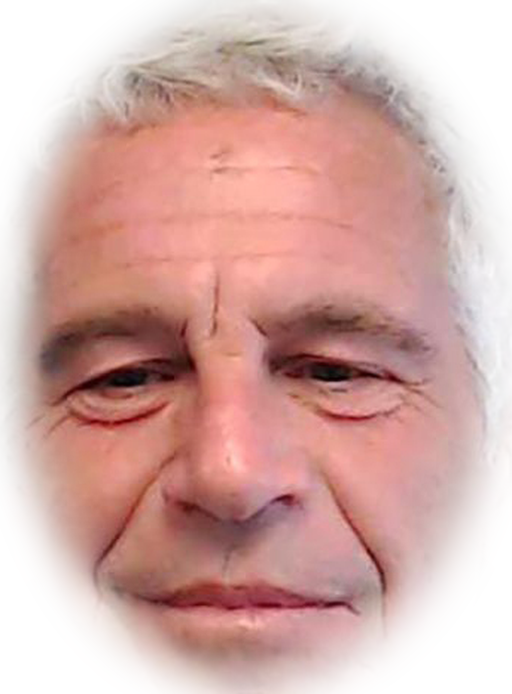
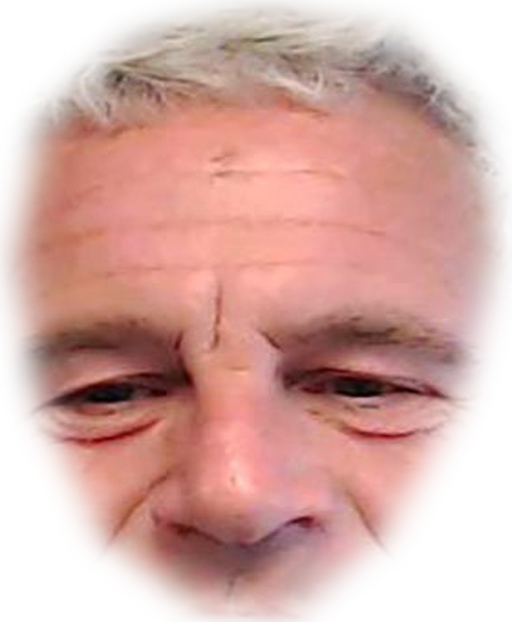
Improve photo cutout and flight controls: mouse look, boost, respawn, sensitivity

diff --git a/gain-eager/game/src/hud.js b/gain-eager/game/src/hud.js
@@ -8,7 +8,7 @@ export class HUD {
     this.el = {};
     for (const id of ['alt','spd','status','healthFill','energyFill','cameraMode','fps','reticle',
                       'minimap','event','screen','menu','pause','settings','controls','bokehState',
-                      'healthNum','energyNum','cdLaser','cdBlast','cdShock','cdBlink','cdSpeed','hintbar']) {
+                      'healthNum','energyNum','cdLaser','cdBlast','cdShock','cdBlink','cdSpeed','hintbar','pointerHint']) {
       this.el[id] = $(id);
     }
     this.map = this.el.minimap.getContext('2d');
@@ -27,6 +27,10 @@ export class HUD {
     on('quitBtn', handlers.quit);
     on('closeControls', handlers.close);
     on('closeSettings', handlers.close);
+    const s = $('sensRange');
+    if (s) s.addEventListener('input', () => handlers.sensitivity(parseFloat(s.value)));
+    const inv = $('invertCheck');
+    if (inv) inv.addEventListener('change', () => handlers.invert(inv.checked));
     const q = $('qualitySelect');
     if (q) { q.value = handlers.state.quality; q.addEventListener('change', () => handlers.quality(q.value, false)); }
     const v = $('volumeRange');
@@ -44,7 +48,7 @@ export class HUD {
 
   setBokeh(on) { if (this.el.bokehState) this.el.bokehState.textContent = on ? 'ON' : 'OFF'; }
 
-  update(state, world, perf) {
+  update(state, world, perf, input) {
     const pl = state.player;
     this.el.alt.textContent = Math.round(pl.pos.y) + ' m';
     this.el.spd.textContent = Math.round(pl.speed * 3.6) + ' km/h';
@@ -66,6 +70,7 @@ export class HUD {
     if (ev) { this.el.event.textContent = ev.text; this.el.event.style.opacity = state.time - ev.at < 2.4 ? '1' : '0'; }
 
     if (state.time > 9 && this.el.hintbar) this.el.hintbar.classList.add('hidden');
+    if (this.el.pointerHint) this.el.pointerHint.style.display = (state.started && !input.locked) ? 'block' : 'none';
 
     // radar: clipped disc, water/terrain sample, structures, pads, sweep and heading cone
     if (++this.mapTick % 2 === 0 && world) {

diff --git a/gain-eager/game/index.html b/gain-eager/game/index.html
@@ -29,6 +29,7 @@
 
   <div id="reticle"><i></i><i></i><i></i><i></i></div>
   <div id="event"></div>
+  <div id="pointerHint">MOVE MOUSE TO LOOK · CLICK TO CAPTURE</div>
   <div id="hintbar"><span><b>WASD</b> move</span><span><b>SPACE</b> up</span><span><b>CTRL</b> down</span><span><b>F</b> takeoff</span><span><b>LMB</b> lasers</span><span><b>V</b> camera</span><span><b>ESC</b> pause</span></div>
 
   <div class="hud-bottom">
@@ -82,6 +83,8 @@
       </select>
     </label>
     <label class="field">Master volume <input id="volumeRange" type="range" min="0" max="1" step="0.05" value="0.55" /></label>
+    <label class="field">Look sensitivity <input id="sensRange" type="range" min="0.0008" max="0.005" step="0.0002" value="0.0022" /></label>
+    <label class="field check"><input id="invertCheck" type="checkbox" /> Invert vertical look</label>
     <label class="field check"><input id="adaptiveCheck" type="checkbox" checked /> Adaptive quality</label>
     <p class="note">Cinematic depth of field: <span id="bokehState">OFF</span> (Ultra only).</p>
     <button id="closeSettings">Back</button>
@@ -103,6 +106,7 @@
         <div class="keyrow"><span class="keys"><kbd>CTRL</kbd></span><span>Descend</span></div>
         <div class="keyrow"><span class="keys"><kbd>F</kbd></span><span>Take off / hover hold</span></div>
         <div class="keyrow"><span class="keys"><kbd>V</kbd></span><span>Cycle camera mode</span></div>
+        <div class="keyrow"><span class="keys"><kbd>R</kbd></span><span>Respawn at base</span></div>
       </section>
       <section class="manual-col">
         <h3>03 / Weapons</h3>

diff --git a/gain-eager/game/src/character.js b/gain-eager/game/src/character.js
@@ -126,11 +126,17 @@ export class Character {
     const FACE_PARTS = ['eyeWhite','pupil','brow','glasses','lens','eyeGlow','bridge','nose','mouth','hair','hairSide'];
     this.faceParts = [];
     this.group.traverse(o => { if (o.isMesh && FACE_PARTS.includes(o.name)) this.faceParts.push(o); });
-    this.photoPlane = new THREE.Mesh(
-      new THREE.PlaneGeometry(.36, .46),
-      new THREE.MeshBasicMaterial({ transparent: true, depthWrite: false, side: THREE.DoubleSide, toneMapped: false })
-    );
-    this.photoPlane.position.set(0, .01, .205);
+    const faceGeo = new THREE.PlaneGeometry(.32, .40, 10, 10);
+    const fa = faceGeo.attributes.position;
+    for (let i = 0; i < fa.count; i++) {
+      const x = fa.getX(i), y = fa.getY(i);
+      fa.setZ(i, -(x*x*3.4 + y*y*1.2));
+    }
+    fa.needsUpdate = true; faceGeo.computeVertexNormals();
+    this.photoPlane = new THREE.Mesh(faceGeo, new THREE.MeshBasicMaterial({
+      map: null, transparent: true, depthWrite: false, side: THREE.DoubleSide, toneMapped: false
+    }));
+    this.photoPlane.position.set(0, .005, .205);
     this.photoPlane.visible = false;
     head.add(this.photoPlane);
     scene.add(this.group);

diff --git a/gain-eager/game/src/main.js b/gain-eager/game/src/main.js
@@ -102,12 +102,22 @@ hud.bind({
   quit: () => { state.started = false; state.paused = false; hud.show('menu'); },
   quality: (name, auto) => { applyQuality(name, auto); audio.play('ui'); },
   volume: v => audio.setVolume(v),
+  sensitivity: v => { cameraRig.sens = v; },
+  invert: v => { cameraRig.invertY = v; },
   adaptive: v => { perf.adaptive = v; },
 });
 hud.show('menu');
 applyQuality(state.quality, false);
 
 addEventListener('keydown', e => {
+  if (e.key.toLowerCase() === 'r' && state.started && !state.paused) {
+    const pl = state.player;
+    pl.pos.x = 0; pl.pos.y = 2; pl.pos.z = 38;
+    pl.vel.x = pl.vel.y = pl.vel.z = 0;
+    pl.flying = false; pl.grounded = true; pl.hovering = false;
+    pl.health = CONFIG.player.maxHealth; pl.energy = CONFIG.player.maxEnergy;
+    emit('Respawn');
+  }
   if (e.key === 'Escape') {
     if (!state.started) return;
     state.paused = !state.paused;
@@ -140,7 +150,7 @@ function tick(dt) {
     abilities.update(dt, ctx);
     world.update(dt, camera.position);
     particles.update(dt);
-    hud.update(state, world, perf);
+    hud.update(state, world, perf, input);
   }
   renderer.info.reset();
   composer.render();

diff --git a/gain-eager/game/styles.css b/gain-eager/game/styles.css
@@ -72,6 +72,7 @@ border:1px solid var(--line);padding:10px;min-height:44px}
 #hintbar{position:absolute;left:50%;bottom:22px;transform:translateX(-50%);display:flex;gap:14px;padding:9px 16px;background:rgba(6,11,17,.72);border:1px solid var(--line);font-size:9px;letter-spacing:.14em;color:var(--muted);text-transform:uppercase;transition:opacity .8s;white-space:nowrap}
 #hintbar b{color:var(--amber);font-weight:400}
 #hintbar.hidden{opacity:0}
+#pointerHint{position:absolute;left:50%;top:calc(50% + 70px);transform:translateX(-50%);font-size:9px;letter-spacing:.22em;color:var(--muted);background:rgba(6,11,17,.65);border:1px solid var(--line);padding:7px 12px;display:none}
 .manual{display:grid;grid-template-columns:1fr 1fr;gap:22px 34px}
 .manual-col h3,.manual-note h3{font-size:10px;letter-spacing:.26em;color:var(--amber);text-transform:uppercase;margin:0 0 12px;padding-bottom:8px;border-bottom:1px solid var(--line)}
 .keyrow{display:flex;align-items:center;justify-content:space-between;gap:14px;padding:7px 0;font-size:11px;color:var(--muted);border-bottom:1px dashed rgba(226,238,245,.08)}

diff --git a/gain-eager/game/src/camera.js b/gain-eager/game/src/camera.js
@@ -11,7 +11,7 @@ export class CameraRig {
     this.yaw = 0; this.pitch = .08;
     this.pos = new THREE.Vector3(0, 6, 26);
     this.look = new THREE.Vector3();
-    this.shake = 0;
+    this.shake = 0; this.sens = .0022; this.invertY = false;
     this.freeDist = 16;
     this.mode = 'chase';
     this._d = new THREE.Vector3();
@@ -30,9 +30,9 @@ export class CameraRig {
     const { input, state, world } = ctx;
     const pl = state.player;
     const m = input.mouseDelta();
-    const sens = .0022;
+    const sens = this.sens;
     this.yaw -= m.x * sens;
-    this.pitch = Math.max(-1.2, Math.min(1.2, this.pitch - m.y * sens));
+    this.pitch = Math.max(-1.2, Math.min(1.2, this.pitch + (this.invertY ? m.y : -m.y) * sens));
     if (!input.locked) {
       if (input.down('ArrowLeft')) this.yaw += dt * 1.5;
       if (input.down('ArrowRight')) this.yaw -= dt * 1.5;

diff --git a/gain-eager/game/src/flight.js b/gain-eager/game/src/flight.js
@@ -16,8 +16,14 @@ export class Flight {
     const yaw = cameraRig.yaw, pitch = cameraRig.pitch;
     const fx = Math.sin(yaw), fz = Math.cos(yaw);
     const rx = Math.cos(yaw), rz = -Math.sin(yaw);
-    const boosting = input.down('Shift') && state.cooldowns.speed > 0;
+    const boosting = input.down('Shift') && pl.energy > 2;
     pl.boosting = boosting;
+    if (boosting) {
+      pl.energy = Math.max(0, pl.energy - dt * 24);
+      state.cooldowns.speed = .3;
+      if (!this.wasBoosting) { audio.play('boost'); emit('Super speed'); }
+    }
+    this.wasBoosting = boosting;
 
     let ix = 0, iz = 0, iy = 0;
     if (input.down('w')) { ix += fx; iz += fz; }

diff --git a/gain-eager/game/src/abilities.js b/gain-eager/game/src/abilities.js
@@ -133,9 +133,6 @@ export class Abilities {
     const pl = state.player;
     for (const k of Object.keys(state.cooldowns)) state.cooldowns[k] = Math.max(0, state.cooldowns[k] - dt);
 
-    if (input.hit('Shift') && pl.energy >= 20 && state.cooldowns.speed <= 0) {
-      state.cooldowns.speed = 2.4; pl.energy -= 20; audio.play('boost'); emit('Super speed');
-    }
     if (input.hit('q')) this._shock(ctx);
     if (input.hit('e')) this._teleport(ctx);
     if (input.mouse.rightPressed) this._fireBlast(ctx);

diff --git a/gain-eager/game/src/input.js b/gain-eager/game/src/input.js
@@ -32,8 +32,8 @@ class Input {
     });
     canvas.addEventListener('contextmenu', e => e.preventDefault());
     addEventListener('mousemove', e => {
-      if (!this.locked) return;
-      this.mouse.dx += e.movementX; this.mouse.dy += e.movementY;
+      this.mouse.dx += e.movementX || 0;
+      this.mouse.dy += e.movementY || 0;
     });
     document.addEventListener('pointerlockchange', () => {
       this.locked = document.pointerLockElement === canvas;
